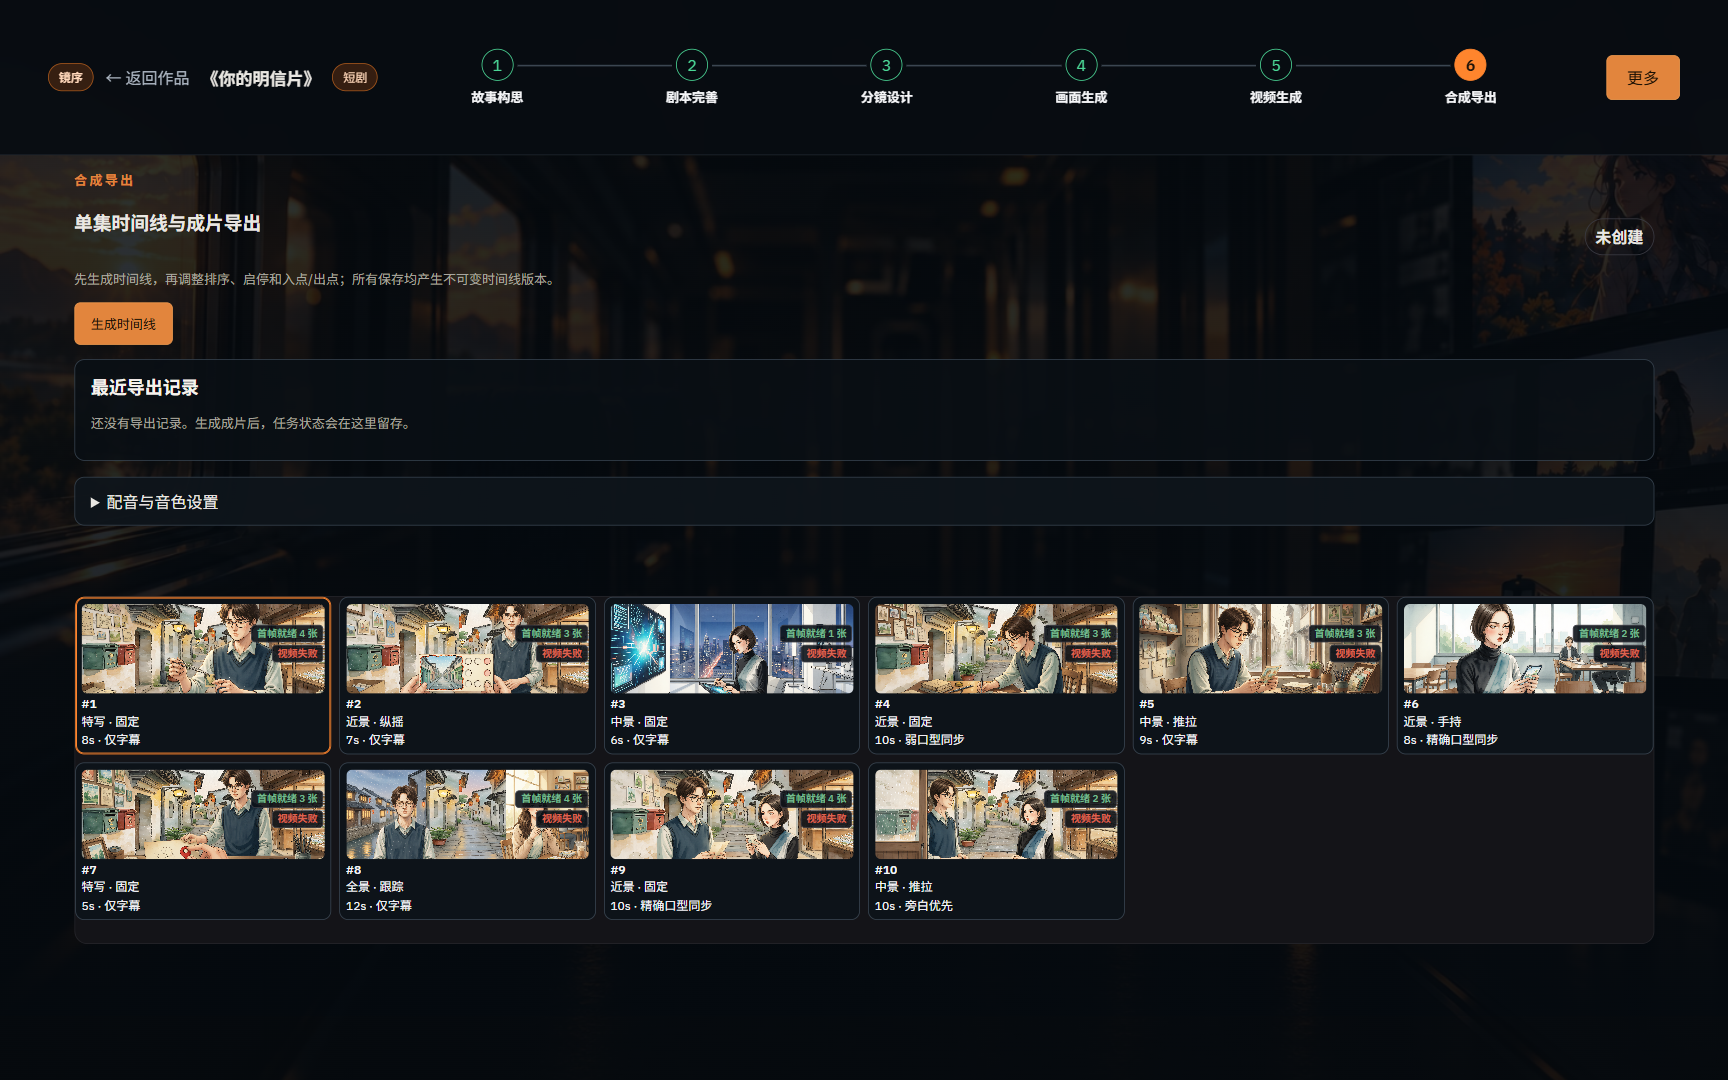
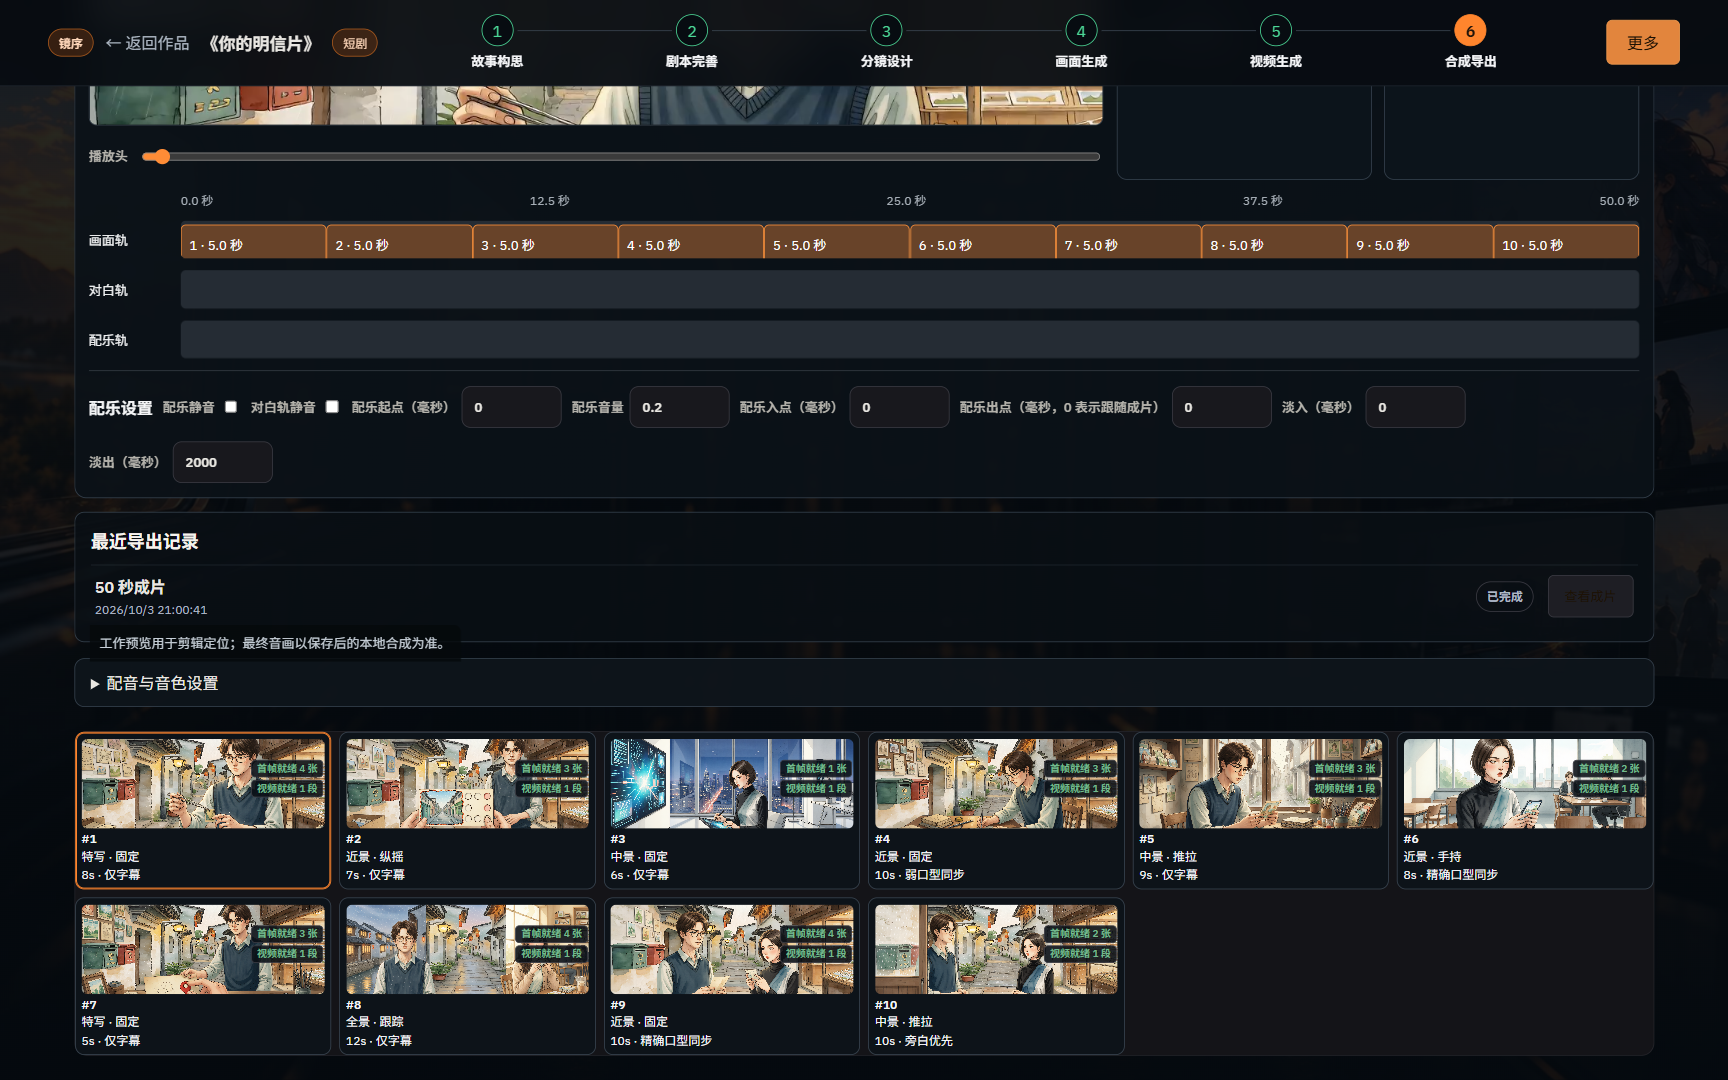
docs(trial): 第八次试用指纹 2EEDF985…（3f4bdcb 修复包）+ 合成导出真实成片截图
- session-plan：固定试用构建切换为 2026-10-03 @3f4bdcb 包——视频侧真实
  E2E 实战包（10/10 Agnes 真实视频全绑定 v2 首帧 → 时间线 → 导出 50.0s
  1080p MP4 sha 三验）；哈希链补全 9-27/9-28 三个工作台中间包。
- README：合成导出页截图换为「50 秒成片 已完成」真实导出态，图说同步。

diff --git a/docs/v1-acceptance/trials/2026-08-27/session-plan.md b/docs/v1-acceptance/trials/2026-08-27/session-plan.md
@@ -3,9 +3,10 @@
 ## 固定试用构建
 
 - 应用：`apps/desktop/out/镜序 Studio-win32-x64/jingxu-studio.exe`
-- 字节数：`225441792`
[1 lines of base64/hex data omitted]
-- 构建状态：2026-09-21 于 `0573401`（在 17aa85a 视频双档树之上叠加：实地全链四修复——Agnes 行回读/引用 id 对齐 V1/调度器轮询可重试错误有限容忍/收官探针，实地端到端 50s 1080×1920 MP4 已验证；**图片档切换 Agnes Image**（2.5 Flash 默认/2.1 Flash 可选，界面下拉），Seedream 停用）打包，packaged-smoke 通过（fresh DB 自动迁移到 head 25）；当日回归 application 640 / persistence 集成 257 / desktop 264 / model-adapters+contracts 127 全绿，图片凭据 UI E2E 与双模型真实 Canary 通过。哈希迭代链 `E60F9075…`（8-27）→ `20E6B020…` → `88D0B13F…` → `8C1D7EAA…`（9-10）→ `BD64B6F3…`（9-18 @9946106）→ `E44D9C6B…`（9-20 @17aa85a）→ 本哈希，均未开始试用，以本哈希为准；回滚按对应提交重建。`2247C514` 为 9-19/20 联调脏树构建，未入链、不得试用。
+- 字节数：`225442304`
[1 lines of base64/hex data omitted]
+- 构建状态：2026-10-03 于 `3f4bdcb`（218d71f 工作台收官树之上叠加：媒体下载段可重试错误有限容忍 3 次——修复 Agnes 慢速 CDN/不稳定代理下一次断流即作废已完成生成的缺陷）打包，packaged-smoke 通过；**该包为视频侧真实 E2E 实战包**：10/10 镜 Agnes 真实视频重生成（首帧全部绑定一致性 v2 参考图）→ 时间线 → 导出 50.0s 1920×1080 H.264+AAC 31,655,164B MP4（sha256 `fac1bda1…` 三处一致，证据 `jingxu-tools/e2e-final-export-20261003.mp4`）；media 域单测 161/161 全绿。哈希迭代链 `E60F9075…`（8-27）→ `20E6B020…` → `88D0B13F…` → `8C1D7EAA…`（9-10）→ `BD64B6F3…`（9-18 @9946106）→ `E44D9C6B…`（9-20 @17aa85a）→ `6270C3D9…`（9-21 @0573401）→ `05A255AB…` / `B573E8D4…`（9-27 工作台联调两包）→ `3715BBB0…`（9-28 01:48 工作台截图包）→ 本哈希（第八次），均未开始试用，以本哈希为准；回滚按对应提交重建（离线重建配方见 CLAUDE 记忆 jingxu-electron-sandbox-env 与 forge 本地 zip 覆盖）。
+- 上一代构建（2026-09-21 于 `0573401`）：实地全链四修复 + 图片档切换 Agnes Image（2.5 Flash 默认），packaged-smoke 通过（fresh DB head 25）；同日回归 application 640 / persistence 集成 257 / desktop 264 / model-adapters+contracts 127 全绿。`2247C514` 为 9-19/20 联调脏树构建，未入链、不得试用。
 - 上一代构建（2026-09-20 于 `17aa85a`）为 low-cost-video-provider-integration 归档树：Seedance+Agnes 双档视频（Agnes V2.0/2.5 Flash 界面可选）、万相档移除、视频任务溯源冻结、Provider 设置两档卡 + Mock 醒目标记；packaged-smoke 通过（head 24）；同树回归 unit 1118+2 skipped / contract 191 / integration 277 全绿。
 - 上一代构建状态（2026-09-18 于 `9946106`）（`enforce-character-style-consistency` 角色一致性门禁全链 + 恢复轮询；父链 `c8627fc` 主体 → … → `f4fd3f2` CINE 逐页收尾 → `4330dfa` 2026-08-27 全量门禁树）打包，在既有能力上新增：项目画风锚点（STYLE 资产）、出场角色参考图强制预检、StoryBible 信封正确注入生成 Prompt——即角色/画风一致性控制前置。打包后 packaged-smoke 通过；同树全量回归 unit 1091 / contract 180 / integration 265 / renderer 114 全绿，一致性门禁 E2E 与批量/首帧/视频链 E2E 全过。哈希迭代链 `E60F9075…`（8-27）→ `20E6B020…` → `88D0B13F…` → `8C1D7EAA…`（9-10 四代）→ 本哈希，均未开始试用，以本哈希为准；回滚按对应提交重建。
 - 自动化基线：AC-V1-01～06 于 `f4fd3f2` 树全过；一致性门禁为 `enforce-character-style-consistency` 新增能力（详见其 change 目录），其首个生成前必须有画风锚点与出场角色参考图，试用组织者应知悉此前置步骤。自动化不代替本轮真实试用。

diff --git a/README.md b/README.md
@@ -6,7 +6,7 @@
 
 ## 界面预览
 
-真实 Windows 打包构建的 Electron 界面（1728 × 1080，十页全中文原型视觉，2026-09-28 于真实项目《你的明信片》实拍）：
+真实 Windows 打包构建的 Electron 界面（1728 × 1080，十页全中文原型视觉，2026-10-03 于真实项目《你的明信片》实拍；合成导出页为 10 镜真实成片导出「已完成」状态，50 秒 1080p MP4）：
 
 | 剧本工作区                                           | 分镜工作台                                     |
 | ---------------------------------------------------- | ---------------------------------------------- |
